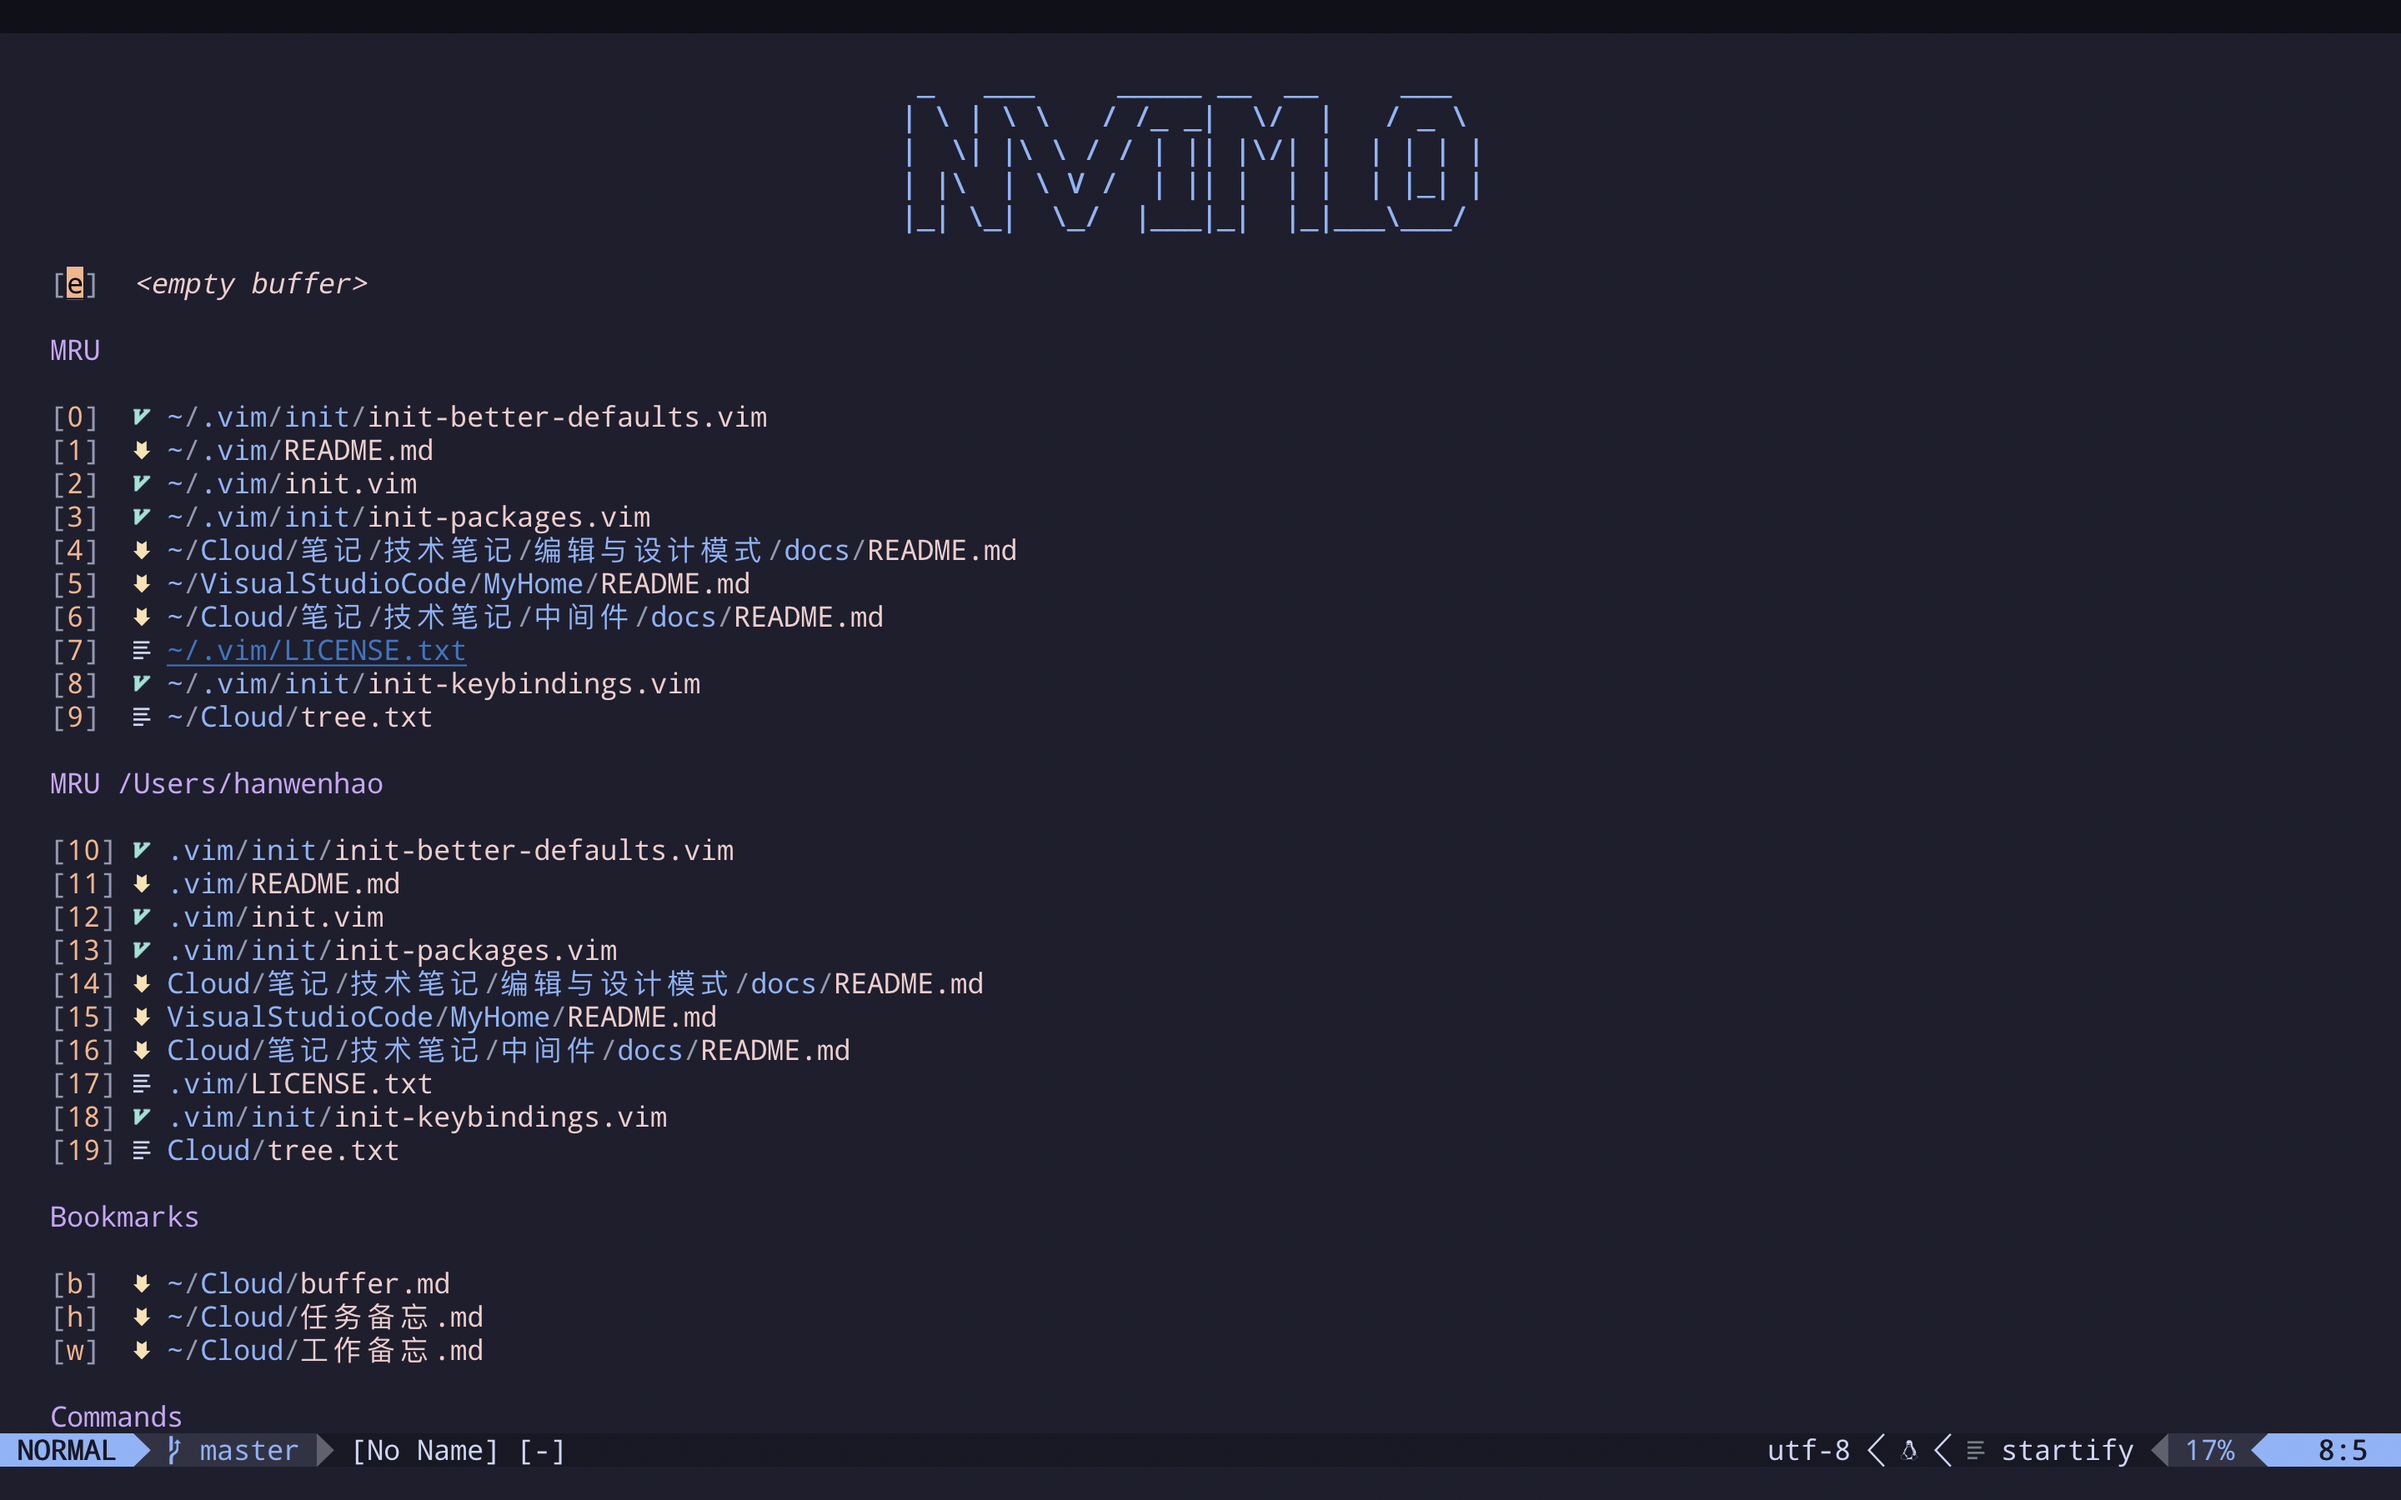
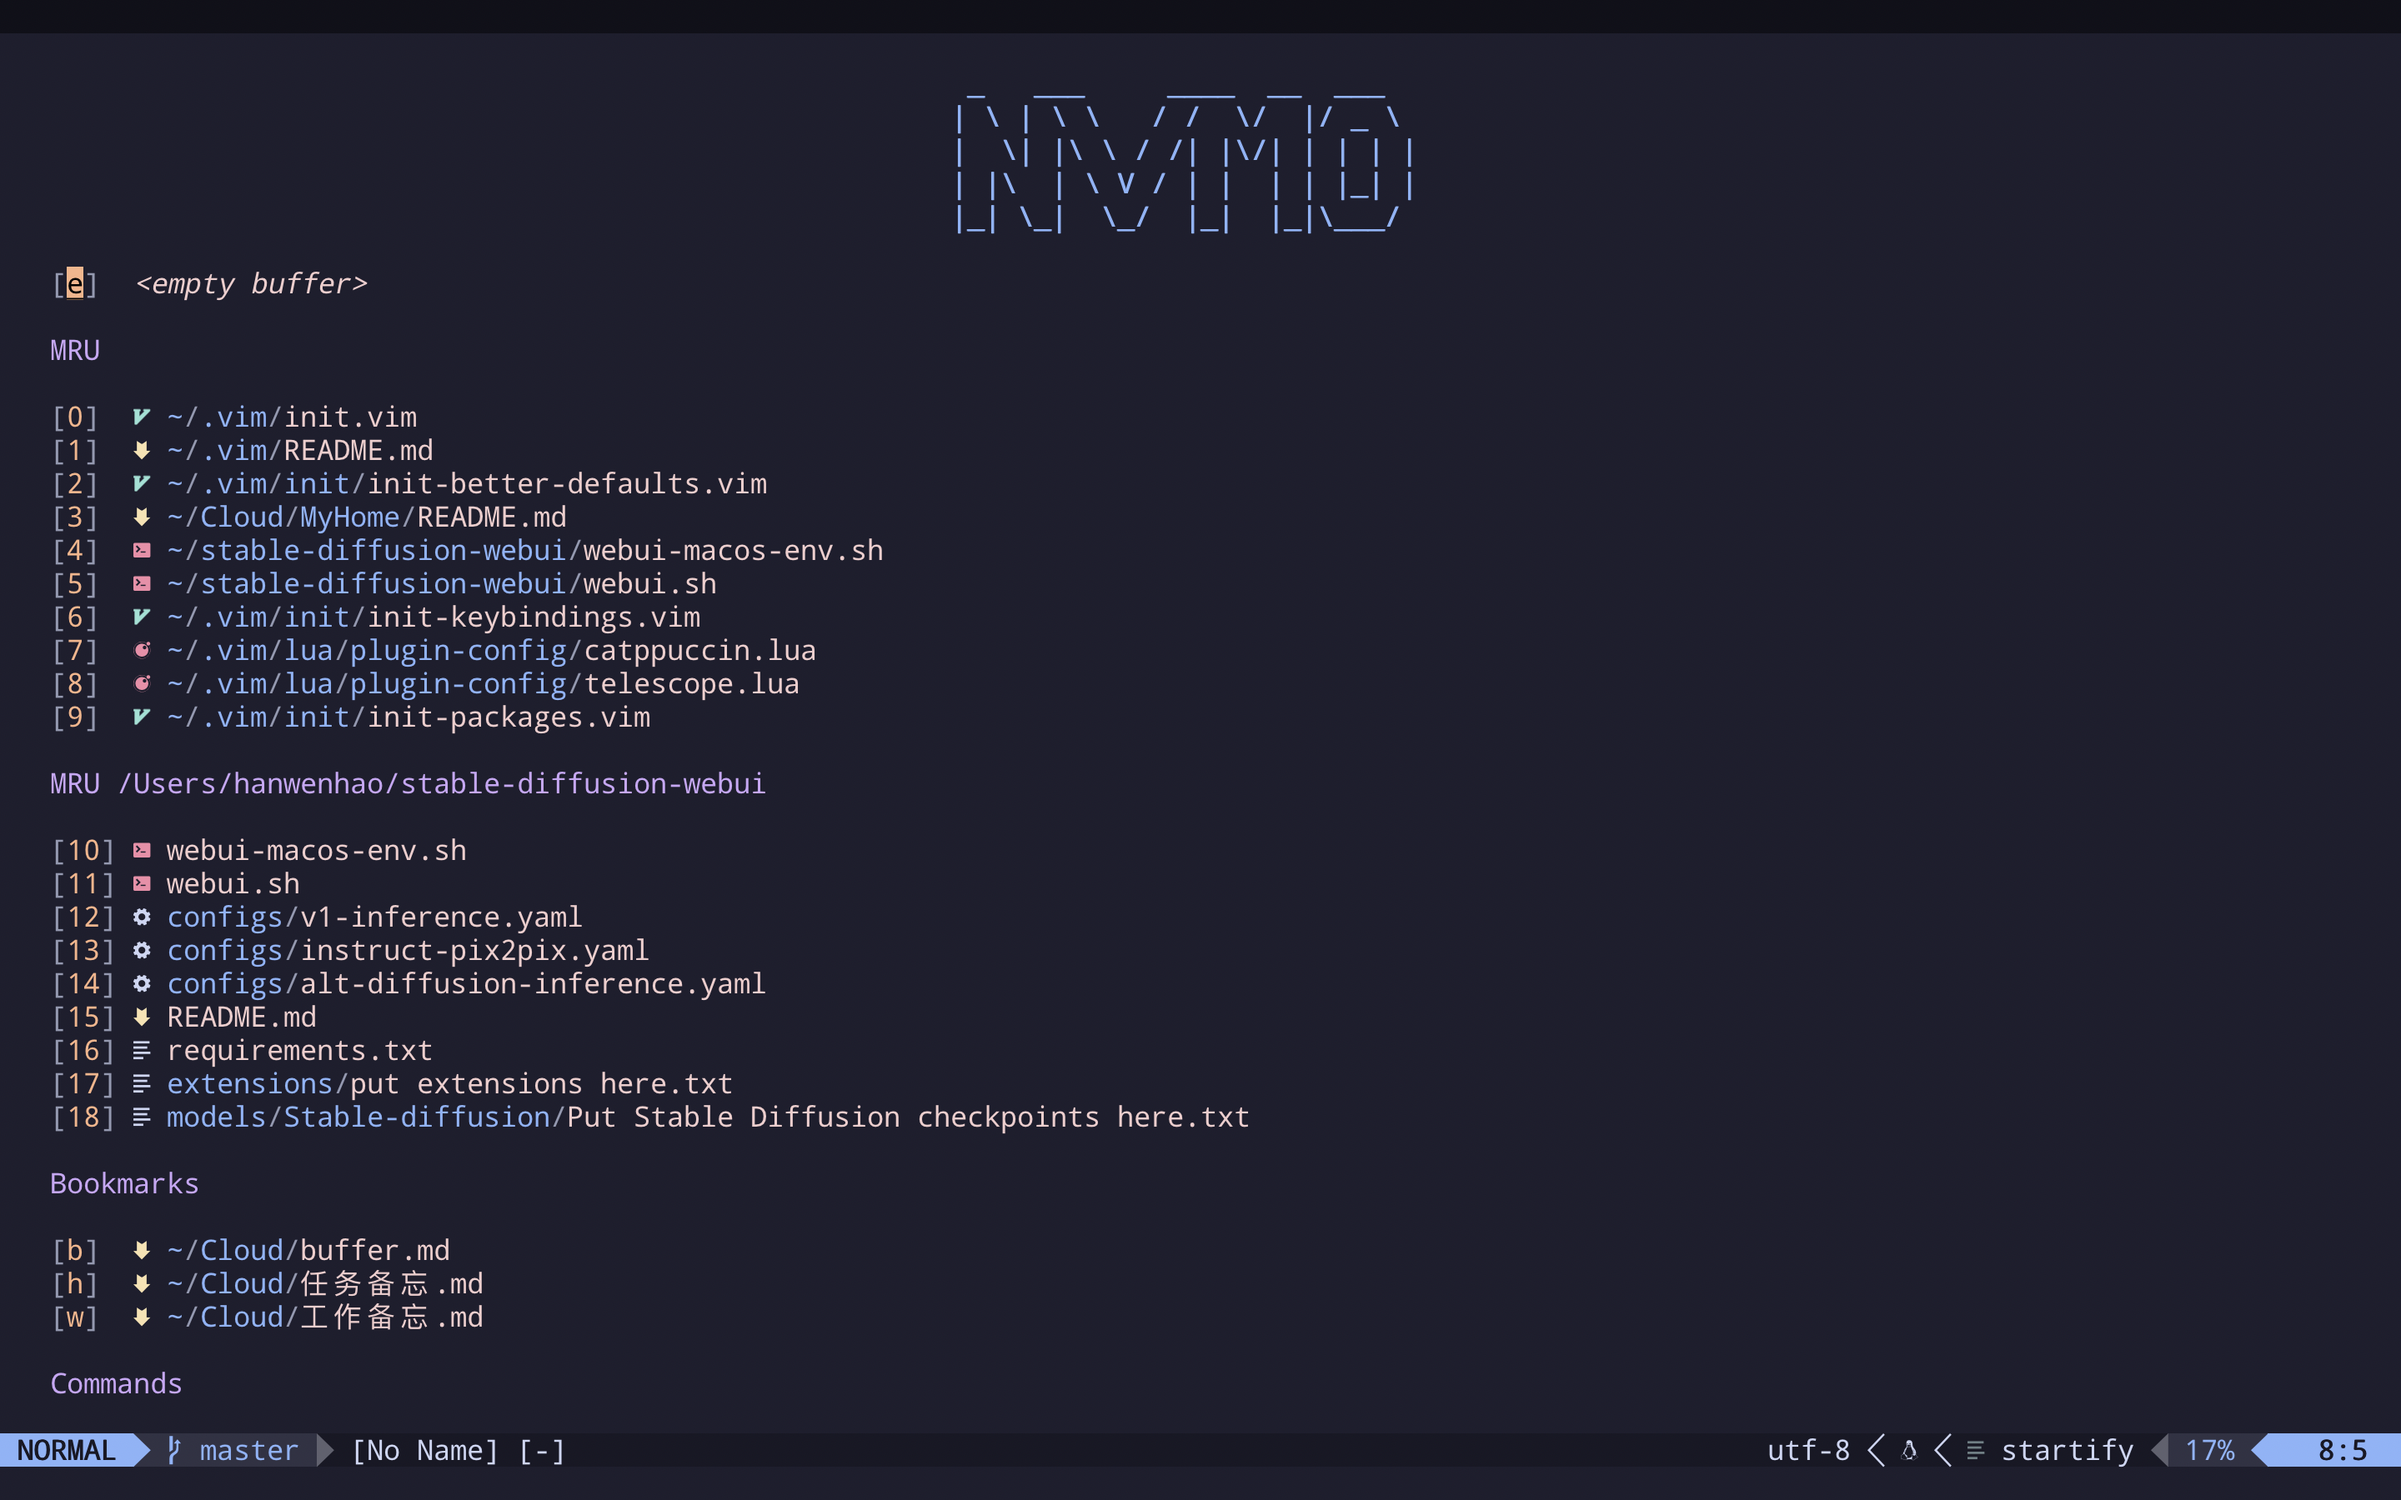
修改logo

diff --git a/README.md b/README.md
@@ -29,7 +29,7 @@
 <br />
 <div align="center">
   <a href="https://github.com/worst001/nvim_0">
-    <img src="" alt="Logo" width="640" height="360">
+    <img src="img/nvim-logo.png" alt="Logo" width="640" height="360">
   </a>
 
   <h3 align="center">完整 nvim 配置指南</h3>
